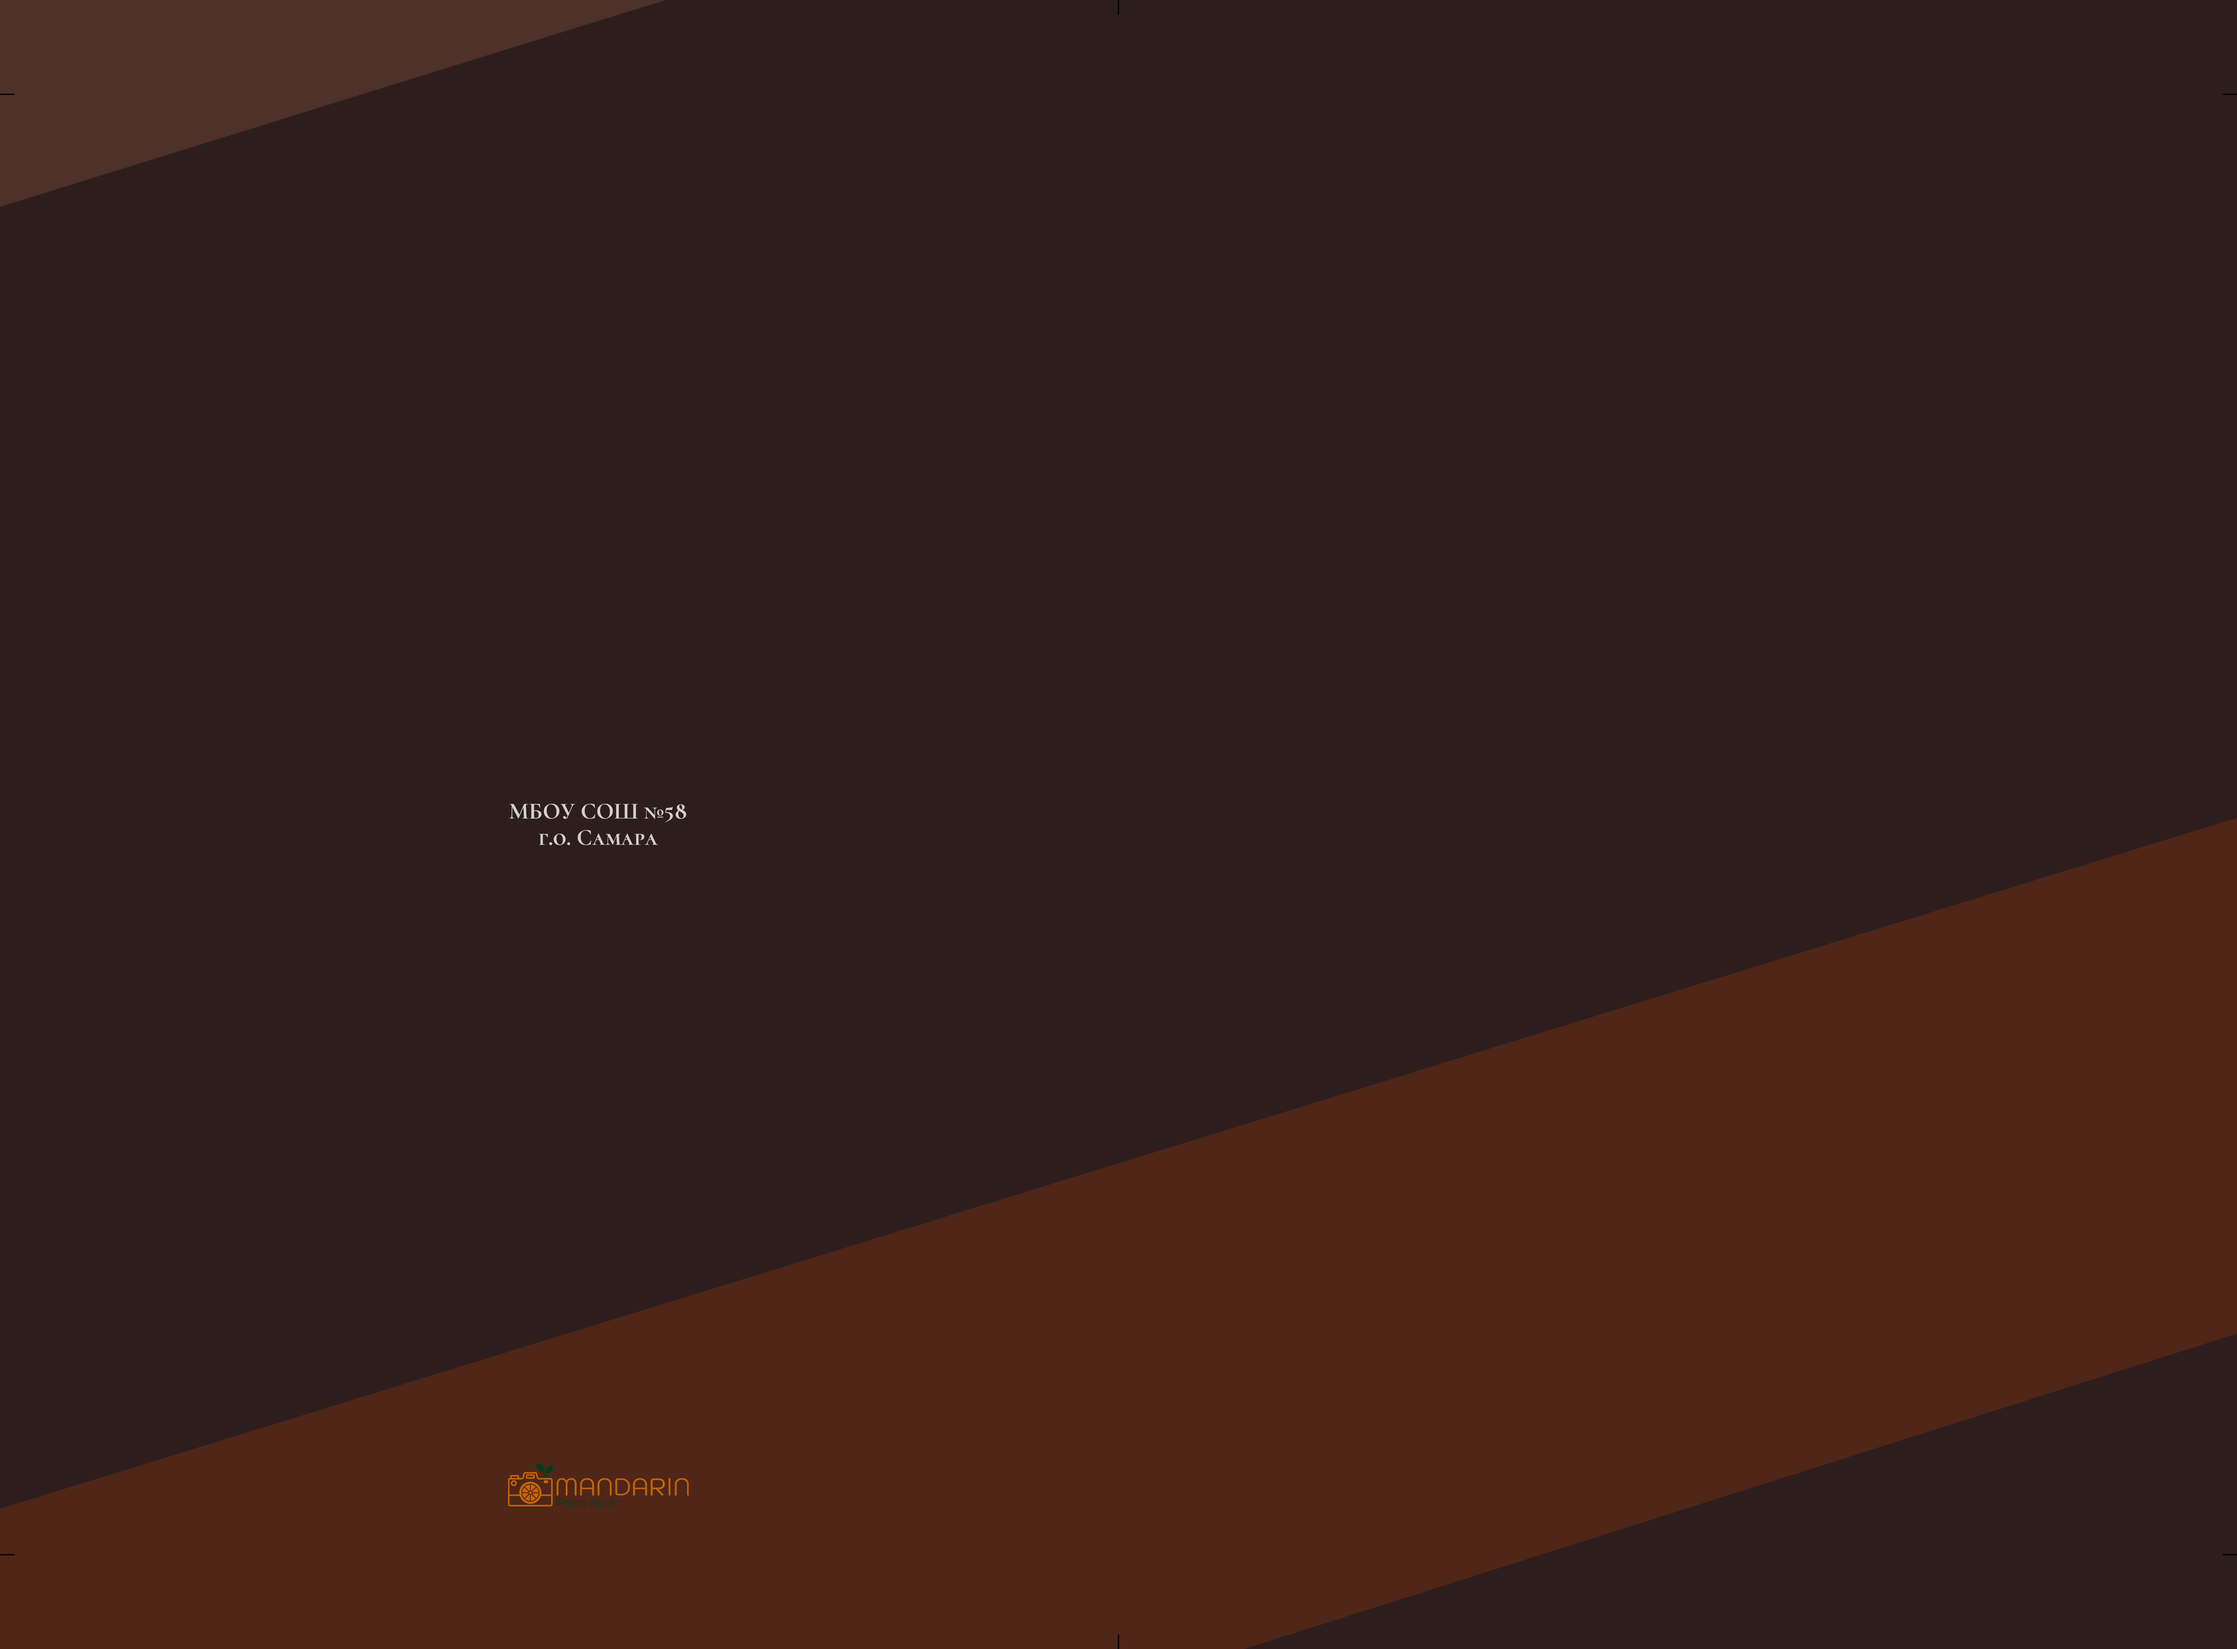
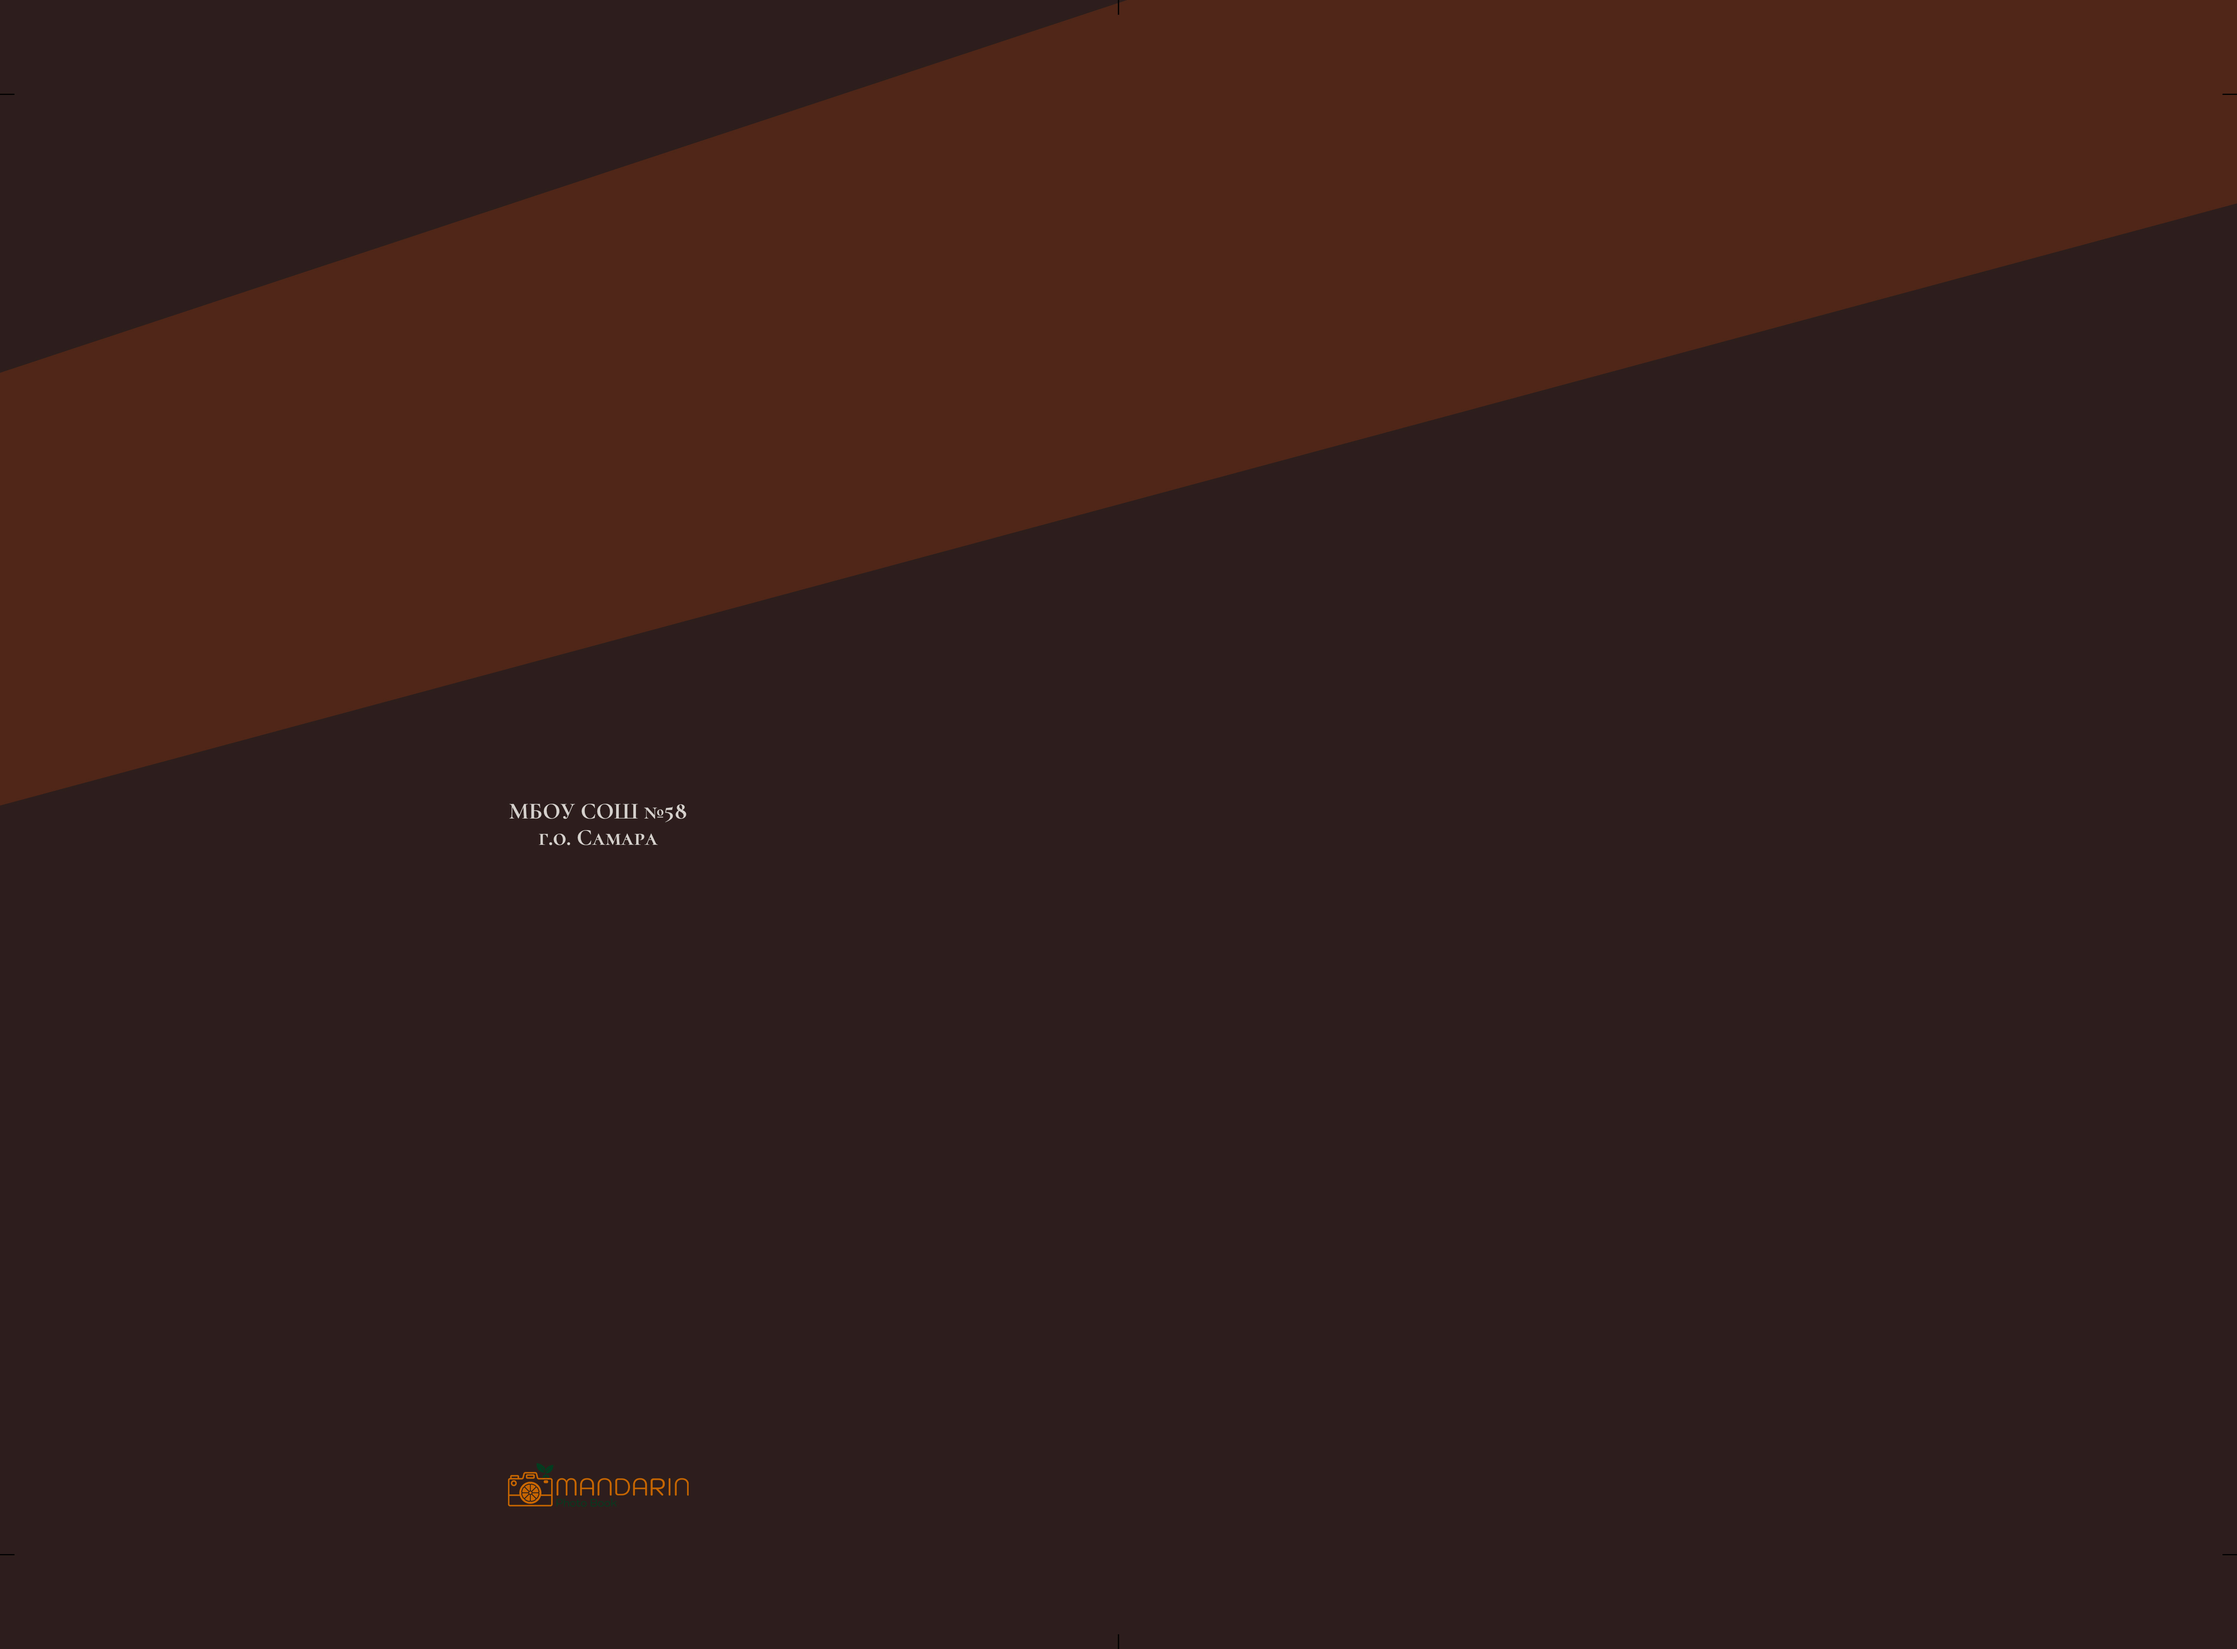
удалены 1 жпг и исправлены координаты для 1 разворота

diff --git a/constants.js b/constants.js
@@ -67,8 +67,8 @@ export const ALBUM_NAMES_DATA = {
           // ключи - количество разворотов
           // значение - координаты фото для соответствующего разворота
           1: {
-            left: 3327,
-            top: 926,
+            left: 3333,
+            top: 996,
           },
           2: {
             left: 3381,
@@ -165,8 +165,8 @@ export const ALBUM_NAMES_DATA = {
           // ключи - количество разворотов
           // значение - координаты фото для соответствующего разворота
           1: {
-            left: 2925,
-            top: 466,
+            left: 3067,
+            top: 486,
           },
           2: {
             left: 3115,
@@ -264,8 +264,8 @@ export const ALBUM_NAMES_DATA = {
           // ключи - количество разворотов
           // значение - координаты фото для соответствующего разворота
           1: {
-            left: 3153,
-            top: 417,
+            left: 3315,
+            top: 457,
           },
           2: {
             left: 3363,
@@ -362,8 +362,8 @@ export const ALBUM_NAMES_DATA = {
           // ключи - количество разворотов
           // значение - координаты фото для соответствующего разворота
           1: {
-            left: 2985,
-            top: 426,
+            left: 3093,
+            top: 446,
           },
           2: {
             left: 3139,
@@ -501,8 +501,8 @@ export const ALBUM_NAMES_DATA = {
           // указывается смещение декорации относительно координат фото
           offsets: {
             // из таблицы
-            left: -268,
-            top: -496,
+            left: -3132,
+            top: 89,
           }
         },
       },
@@ -550,8 +550,8 @@ export const ALBUM_NAMES_DATA = {
           // ключи - количество разворотов
           // значение - координаты фото для соответствующего разворота
           1: {
-            left: 2858,
-            top: 337,
+            left: 2990,
+            top: 357,
           },
           2: {
             left: 3038,
